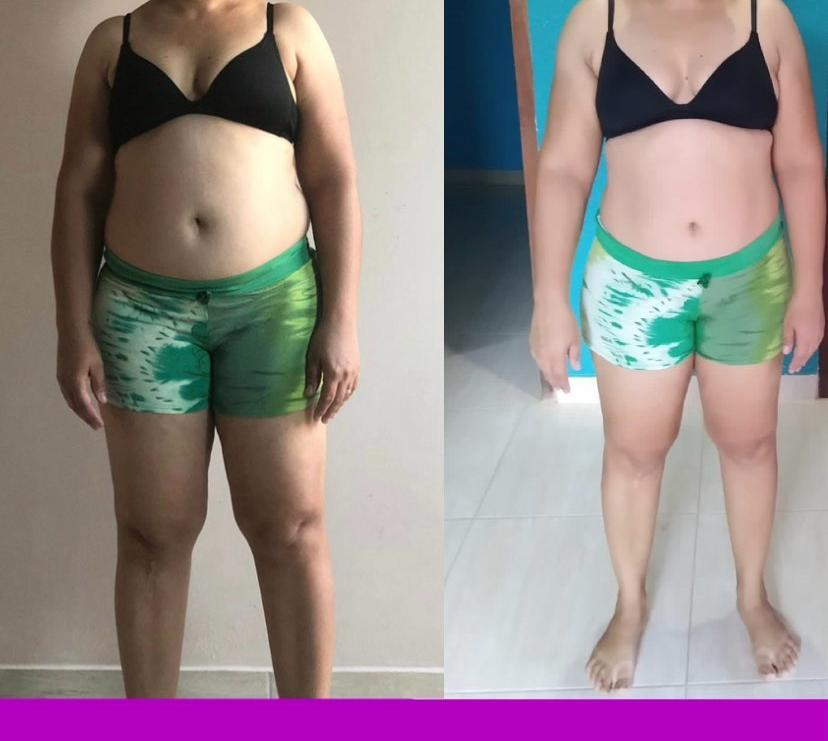
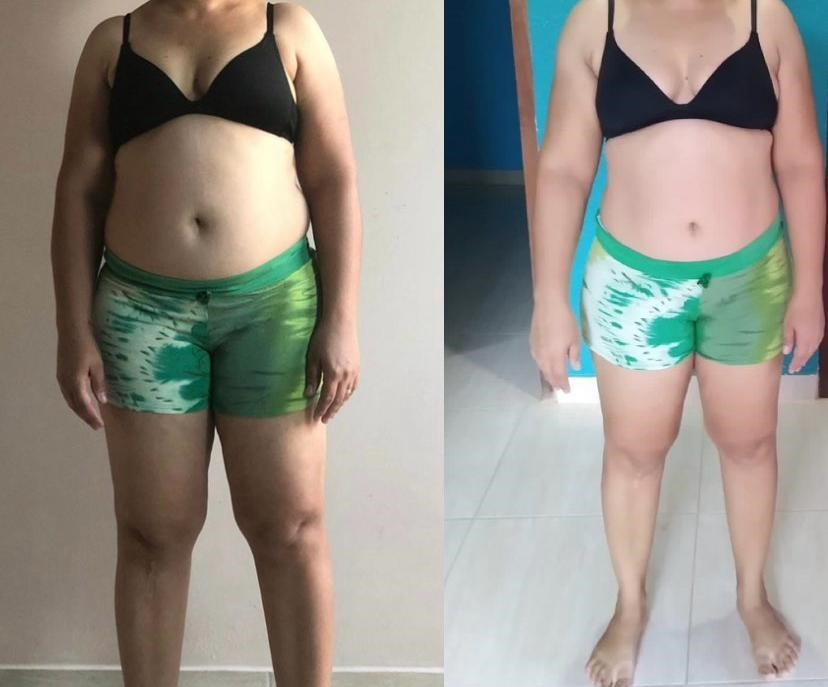
fix: corrigindo tamanho fotos

diff --git a/src/components/TemPrograma.jsx b/src/components/TemPrograma.jsx
@@ -144,43 +144,43 @@ export function TemPrograma() {
             <SwiperSlide>
               <Image
                 src={ImageAntesDepois1}
-                className="w-96 object-cover h-96"
+                className="w-96 object-contain h-96"
               />
             </SwiperSlide>
             <SwiperSlide>
               <Image
                 src={ImageAntesDepois2}
-                className="w-96 object-cover h-96"
+                className="w-96 object-contain h-96"
               />
             </SwiperSlide>
             <SwiperSlide>
               <Image
                 src={ImageAntesDepois3}
-                className="w-96 object-cover h-96"
+                className="w-96 object-contain h-96"
               />
             </SwiperSlide>
             <SwiperSlide>
               <Image
                 src={ImageAntesDepois4}
-                className="w-96 object-cover h-96"
+                className="w-96 object-contain h-96"
               />
             </SwiperSlide>
             <SwiperSlide>
               <Image
                 src={ImageAntesDepois5}
-                className="w-96 object-cover h-96"
+                className="w-96 object-contain h-96"
               />
             </SwiperSlide>
             <SwiperSlide>
               <Image
                 src={ImageAntesDepois6}
-                className="w-96 object-cover h-96"
+                className="w-96 object-contain h-96"
               />
             </SwiperSlide>
             <SwiperSlide>
               <Image
                 src={ImageAntesDepois7}
-                className="w-96 object-cover h-96"
+                className="w-96 object-contain h-96"
               />
             </SwiperSlide>
           </Swiper>
